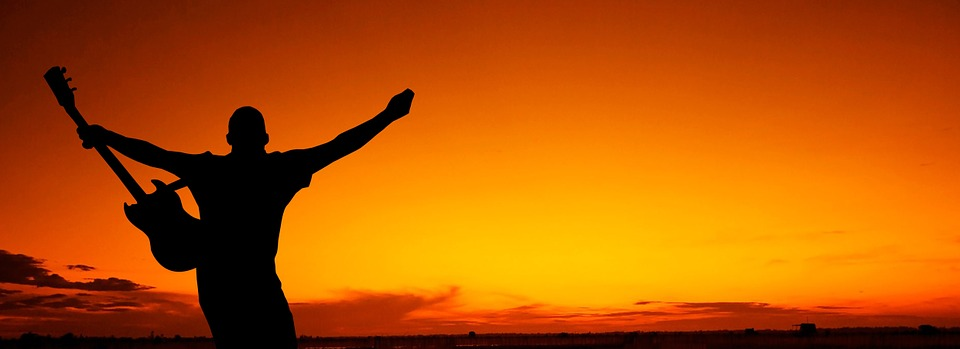
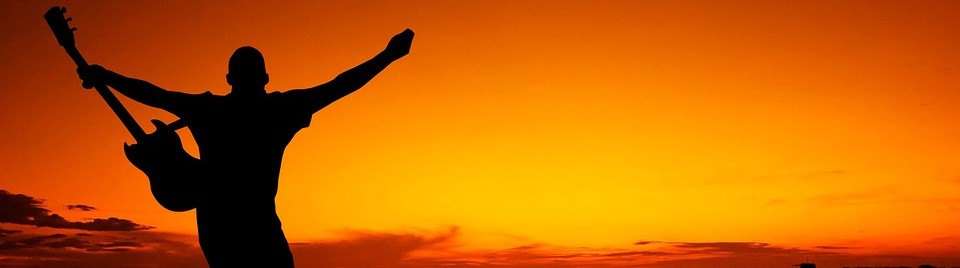
Sitemap & Move general.css

diff --git a/sitemap.html b/sitemap.html
@@ -1,7 +1,8 @@
 <!DOCTYPE HTML>
 <html>
 <head>
-    <link href="reset.css" rel="stylesheet">
+    <link href="css/reset.css" rel="stylesheet">
+    <link href="css/general.css" rel="stylesheet">
     <link href="style.css" rel="stylesheet">
     <title>Stroke Defender</title>
 </head>
@@ -37,11 +38,11 @@
 
 <!--Banner-->
 <div class="banner">
-    <img class="banner-img" src="img/banner1.jpg">
+    <img class="banner-img" src="img/sunset-banner.jpg">
     <h1 class="banner-heading">Site Map</h1>
 </div>
 
-<article class="site-map">
+<div class="site-map container">
     <div>
         <h2>Main Articles</h2>
         <ul>
@@ -56,26 +57,21 @@
     <div>
         <h2>About Us</h2>
         <ul>
-            <li><a>Our Purpose</a></li>
-            <li><a>Our Team</a></li>
-            <li><a>Contact us</a></li>
+            <li><a href="#">Our Purpose</a></li>
+            <li><a href="#">Our Team</a></li>
+            <li><a href="#">Contact us</a></li>
         </ul>
     </div>
     <hr>
     <div>
         <h2>User Profile</h2>
         <ul>
-            <li><a>Sign Up</a></li>
-            <li><a>Login</a></li>
-            <li><a>Self-Test</a></li>
+            <li><a href="signup.html">Sign Up</a></li>
+            <li><a href="login.html">Login</a></li>
+            <li><a href="#">Self-Test</a></li>
         </ul>
     </div>
-    <hr>
-    <div>
-        <h2>User Profile</h2>
-        <ul></ul>
-    </div>
-</article>
+</div>
 
 
 <!--Footer-->

diff --git a/style.css b/style.css
@@ -1,44 +1,3 @@
-/*General*/
-body {
-    font-family: Tahoma, Arial, sans-serif;
-    background-color: #FCFCFC;
-}
-
-.container {
-    min-width: 1000px;
-}
-
-a {
-    text-decoration: none;
-    cursor: auto;
-}
-
-button.rnd-btn {
-    border-radius: 10px;
-    padding: 0 40px;
-    color: white;
-    background-color: #689F38;
-    height: 60px;
-    font-size: 24px;
-    border: none;
-}
-
-ul.hor-list {
-    display: inline;
-}
-
-ul.hor-list > li {
-    display: inline;
-}
-
-ul.hor-list li + li:before {
-    content: '•';
-    margin-right: 3px;
-    padding: 0 3px;
-    font-family: Arial, serif;
-    color: #bbb;
-}
-
 /*Larry - Navigation*/
 .nav-bar {
     display: flex;
@@ -76,7 +35,7 @@ ul.hor-list li + li:before {
 }
 
 .banner .banner-img {
-    max-width: 100%;
+    width: 100%;
     margin: auto 0;
 }
 
@@ -101,12 +60,14 @@ ul.hor-list li + li:before {
 
 .banner h1.banner-heading{
     position: absolute;
+    margin: 0;
     left: 0;
-    top: 0;
+    top: 45%;
     width: 100%;
-    height: 100%;
+    height: 55%;
     text-align: center;
     vertical-align: middle;
+    text-shadow: 2px 2px 2px black;
     color: white;
 }
 
@@ -266,6 +227,6 @@ p{
 
 
 /*Larry - Site map*/
-.site-map {
-
+.site-map li{
+    margin: 10px 0;
 }

diff --git a/css/general.css b/css/general.css
@@ -1,0 +1,79 @@
+/*General*/
+body {
+    font-family: Tahoma, Arial, sans-serif;
+    background-color: #FCFCFC;
+}
+
+.container {
+    min-width: 1000px;
+    margin: 80px;
+}
+
+h1, h2, h3, h4, h5, h6 {
+    font-weight: bold;
+}
+
+h1 {
+    font-size: 2em;
+    margin: .67em 0;
+}
+
+h2{
+    font-size: 1.5em;
+    margin: .83em 0;
+}
+
+h3 {
+    font-size: 1.17em;
+    margin: 1em 0;
+}
+
+h4{
+    font-size: 1em;
+    margin: 1.33em 0;
+}
+
+h5{
+    font-size: .83em;
+    margin: 1.67em 0;
+}
+
+h6 {
+    font-size: .67em;
+    margin: 2.33em 0;
+}
+
+a {
+    text-decoration: none;
+    cursor: auto;
+}
+
+button.rnd-btn {
+    border-radius: 10px;
+    padding: 0 40px;
+    color: white;
+    background-color: #689F38;
+    height: 60px;
+    font-size: 24px;
+    border: none;
+}
+
+ul.hor-list {
+    display: inline;
+}
+
+ul.hor-list > li {
+    display: inline;
+}
+
+ul.hor-list li + li:before {
+    content: '•';
+    margin-right: 3px;
+    padding: 0 3px;
+    font-family: Arial, serif;
+    color: #bbb;
+}
+
+a {
+    color: #00BFA5;
+}

diff --git a/signup.html b/signup.html
@@ -3,7 +3,8 @@
 <head>
     <meta charset="UTF-8">
     <title>Sign up</title>
-    <link rel="stylesheet" href="reset.css" />
+    <link rel="stylesheet" href="css/reset.css" />
+	<link href="css/general.css" rel="stylesheet">
     <link rel="stylesheet" href="style.css" />
 </head>
 <body>

diff --git a/about.html b/about.html
@@ -1,7 +1,8 @@
 <!DOCTYPE HTML>
 <html>
 <head>
-    <link href="reset.css" rel="stylesheet">
+    <link href="css/reset.css" rel="stylesheet">
+    <link href="css/general.css" rel="stylesheet">
     <link href="style.css" rel="stylesheet">
     <title>Stroke Defender</title>
 </head>

diff --git a/contact.html b/contact.html
@@ -1,7 +1,8 @@
 <!DOCTYPE HTML>
 <html>
 <head>
-    <link href="reset.css" rel="stylesheet">
+    <link href="css/reset.css" rel="stylesheet">
+    <link href="css/general.css" rel="stylesheet">
     <link href="style.css" rel="stylesheet">
     <title>Stroke Defender</title>
 </head>

diff --git a/faq.html b/faq.html
@@ -1,7 +1,8 @@
 <!DOCTYPE HTML>
 <html>
 <head>
-    <link href="reset.css" rel="stylesheet">
+    <link href="css/reset.css" rel="stylesheet">
+    <link href="css/general.css" rel="stylesheet">
     <link href="style.css" rel="stylesheet">
     <title>Stroke Defender</title>
 </head>

diff --git a/privacy.html b/privacy.html
@@ -1,7 +1,8 @@
 <!DOCTYPE HTML>
 <html>
 <head>
-    <link href="reset.css" rel="stylesheet">
+    <link href="css/reset.css" rel="stylesheet">
+    <link href="css/general.css" rel="stylesheet">
     <link href="style.css" rel="stylesheet">
     <title>Stroke Defender</title>
 </head>

diff --git a/index.html b/index.html
@@ -1,7 +1,8 @@
 <!DOCTYPE HTML>
 <html>
 <head>
-    <link href="reset.css" rel="stylesheet">
+    <link href="css/reset.css" rel="stylesheet">
+    <link href="css/general.css" rel="stylesheet">
     <link href="style.css" rel="stylesheet">
     <title>Stroke Defender</title>
 </head>
